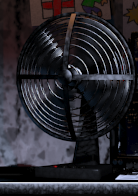
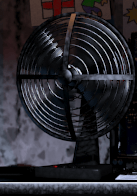
feat(office): Add fan.

diff --git a/src/office.cpp b/src/office.cpp
@@ -2,6 +2,9 @@
 
 using namespace Game;
 
+static SDL_FRect const RECT_FAN = SDL_FRect{.x = -24.0 / 960, .y = -209.0 / 544, .w = 163.0 / 960, .h = 294.0 / 544};
+static SDL_FRect const RECT_FREDDY_NOSE = SDL_FRect{.x = 500.0, .y = 165.0, .w = 30.0, .h = 30.0};
+
 States::Office::Office(StateManager& sm) : IState::IState(sm)
 {
     sm.states.erase(sm.states.begin());
@@ -15,10 +18,14 @@ States::Office::Office(StateManager& sm) : IState::IState(sm)
     this->a_freddy_nose = AssetManager::get<Audio>("a_freddy_nose");
     this->a_freddy_nose->set_gain_track(0.75);
 
+    this->t_fan = AssetManager::get<TextureArray>("t_fan");
+
     this->tr_office_view = std::make_shared<RenderTexture>(this->t_office->textures[0]->w, this->t_office->textures[0]->h);
 
     this->cursor = SDL_CreateSystemCursor(SDL_SYSTEM_CURSOR_DEFAULT);
     this->hover_cursor = SDL_CreateSystemCursor(SDL_SYSTEM_CURSOR_POINTER);
+
+    this->spr_fan.refresh_from_rect(RECT_FAN);
 }
 
 States::Office::~Office()
@@ -37,6 +44,10 @@ void States::Office::draw(int w, int h)
     Texture::default_shader->setUniform("u_texture", 0);
     this->t_office->textures[0]->activate(GL_TEXTURE0);
     this->spr_office.draw(*Texture::default_shader);
+    Texture::default_shader->use();
+    Texture::default_shader->setUniform("u_texture", 0);
+    this->t_fan->textures[this->fan_image]->activate(GL_TEXTURE0);
+    this->spr_fan.draw(*Texture::default_shader);
     this->tr_office_view->unuse();
 
     NEX::GL::set_view_letterbox({w, h}, {960, 544});
@@ -70,12 +81,21 @@ void States::Office::update(double dt)
         this->a_office_buzz->play_track();
 
     this->o_call_handler.update(dt);
+
+    auto mouse = InputManager::get_mouse_data().get_coords();
+    mouse.x *= 960;
+    mouse.y *= 540;
+    mouse.x += u_view_offset * (1210 - 960);
+    if (SDL_PointInRectFloat(&mouse, &RECT_FREDDY_NOSE))
+        CursorManager::set_cursor(CURSOR_POINT);
+
+    this->ti_fan.update(dt);
+    if(this->ti_fan.has_ticked())
+        this->fan_image = (this->fan_image + 1) % this->t_fan->textures.size();
 }
 
 void States::Office::event(SDL_Event& event)
 {
-    SDL_FRect const rect_freddy_nose = SDL_FRect{.x = 495.0, .y = 165.0, .w = 30.0, .h = 30.0};
-
     switch (event.type)
     {
         case SDL_EVENT_MOUSE_MOTION:
@@ -84,10 +104,8 @@ void States::Office::event(SDL_Event& event)
             mouse.x *= 960;
             mouse.y *= 540;
             mouse.x += u_view_offset * (1210 - 960);
-            if (SDL_PointInRectFloat(&mouse, &rect_freddy_nose))
-                SDL_SetCursor(this->hover_cursor);
-            else
-                SDL_SetCursor(this->cursor);
+            if (SDL_PointInRectFloat(&mouse, &RECT_FREDDY_NOSE))
+                CursorManager::set_cursor(CURSOR_POINT);
             break;
         }
 
@@ -97,7 +115,7 @@ void States::Office::event(SDL_Event& event)
             mouse.x *= 960;
             mouse.y *= 540;
             mouse.x += u_view_offset * (1210 - 960);
-            if (SDL_PointInRectFloat(&mouse, &rect_freddy_nose))
+            if (SDL_PointInRectFloat(&mouse, &RECT_FREDDY_NOSE))
                 this->a_freddy_nose->play_track();
             break;
         }

diff --git a/src/office/call.cpp b/src/office/call.cpp
@@ -2,6 +2,8 @@
 
 using namespace Game::Objects::Office;
 
+static SDL_FRect const RECT_CALL = SDL_FRect{.x = -900.0 / 960, .y = 444.0 / 544, .w = 192.0 / 960, .h = 48.0 / 544};
+
 CallHandler::CallHandler()
 {
     this->a_call = AssetManager::get<Audio>("a_night_call");
@@ -10,7 +12,7 @@ CallHandler::CallHandler()
 
     this->t_mute_call = AssetManager::get<Texture>("t_mute_call");
     this->spr_mute_call.color.a = 0.66;
-    this->spr_mute_call.refresh_from_rect(rect_call);
+    this->spr_mute_call.refresh_from_rect(RECT_CALL);
 }
 
 void CallHandler::draw(void)
@@ -28,6 +30,10 @@ void CallHandler::update(double dt)
 {
     if (!t_call.ok)
         this->t_call.update(dt);
+
+    auto mouse = InputManager::get_mouse_data().get_coords_normalized();
+    if (SDL_PointInRectFloat(&mouse, &RECT_CALL))
+        CursorManager::set_cursor(CURSOR_POINT);
 }
 
 void CallHandler::event(SDL_Event& event)
@@ -37,7 +43,7 @@ void CallHandler::event(SDL_Event& event)
         case SDL_EVENT_MOUSE_BUTTON_UP:
         {
             auto mouse = InputManager::get_mouse_data().get_coords_normalized();
-            if (SDL_PointInRectFloat(&mouse, &this->rect_call))
+            if (SDL_PointInRectFloat(&mouse, &RECT_CALL))
                 this->a_call->stop_track();
             break;
         }

diff --git a/src/entry.cpp b/src/entry.cpp
@@ -22,12 +22,16 @@ struct AppState : public IAppState
 
 bool main_loop(double time, void* userData)
 {
+    CursorManager::commit();
+    
     constexpr double timer_rate = 1.0 / 60;
     constexpr double delta_time_limit = 1.0 / 2; // If less than 2 fps, ignore the update.
 
     AppState* const status = static_cast<AppState*>(userData);
     status->states.draw(status->window.w, status->window.h);
     status->window.swap();
+
+    CursorManager::reset();
 
     if (time < delta_time_limit)
         status->timer += time;

diff --git a/inc/office.hpp b/inc/office.hpp
@@ -20,8 +20,12 @@ namespace Game::States
         double u_view_offset = 0.5;
         std::shared_ptr<Shader> s_office;
         std::shared_ptr<Audio> a_office_buzz, a_freddy_nose;
-        std::shared_ptr<TextureArray> t_office;
+        std::shared_ptr<TextureArray> t_office, t_fan;
         std::shared_ptr<RenderTexture> tr_office_view;
+
+        Timer ti_fan = Timer(1.0 / 60);
+        Sprite spr_fan;
+        size_t fan_image = 0;
 
         Sprite spr_office, spr_office_view;
 

diff --git a/inc/office/call.hpp b/inc/office/call.hpp
@@ -17,12 +17,11 @@ namespace Game::Objects::Office
         Sprite spr_mute_call;
 
         Timer t_call = Timer(15);
-        SDL_FRect rect_call = SDL_FRect{.x = -900.0 / 960, .y = 444.0 / 544, .w = 192.0 / 960, .h = 48.0 / 544};
 
         CallHandler();
 
         void draw(void);
-        void update(double dt);
+        void update(double);
         void event(SDL_Event&);
     };
 }; // namespace Game::Objects::Office
